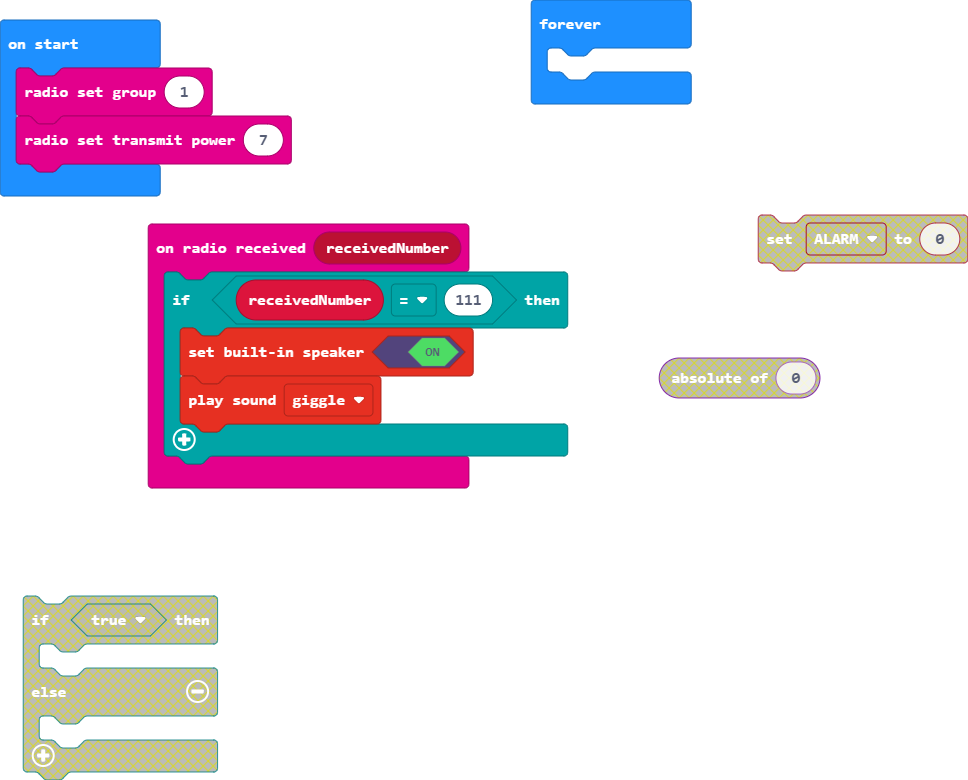
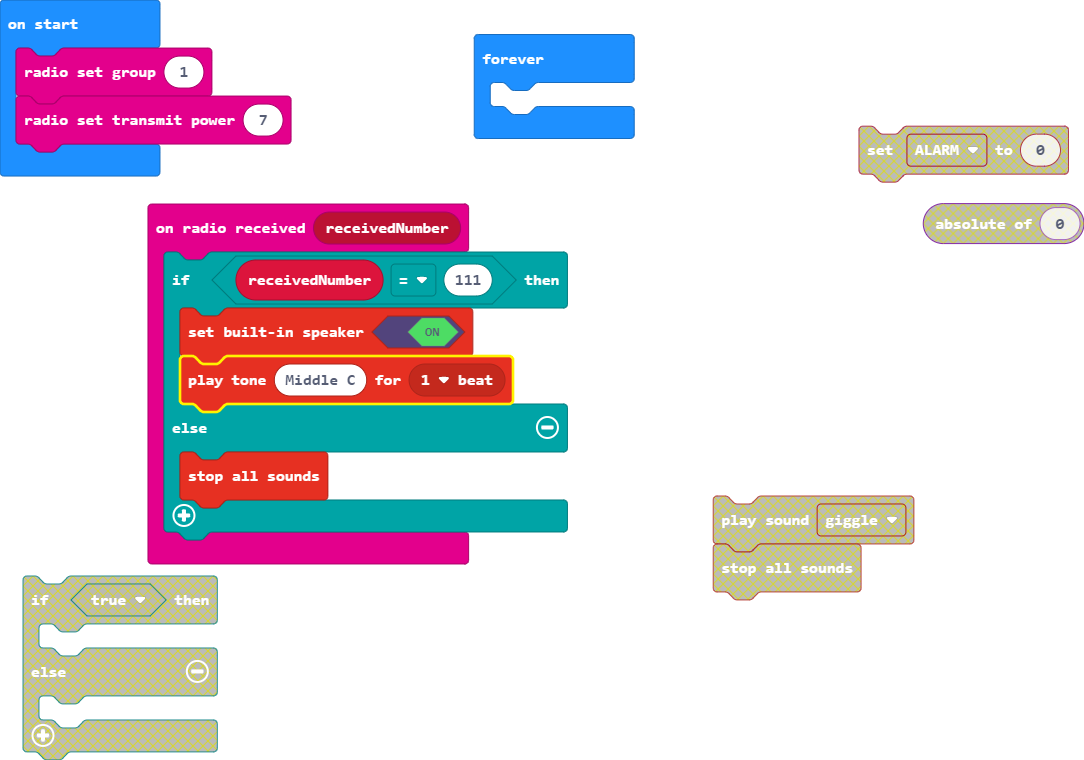
Update main.blocks, main.ts

diff --git a/main.ts b/main.ts
@@ -1,7 +1,9 @@
 radio.onReceivedNumber(function (receivedNumber) {
     if (receivedNumber == 111) {
         music.setBuiltInSpeakerEnabled(true)
-        soundExpression.giggle.play()
+        music.playTone(262, music.beat(BeatFraction.Whole))
+    } else {
+        music.stopAllSounds()
     }
 })
 radio.setGroup(1)
